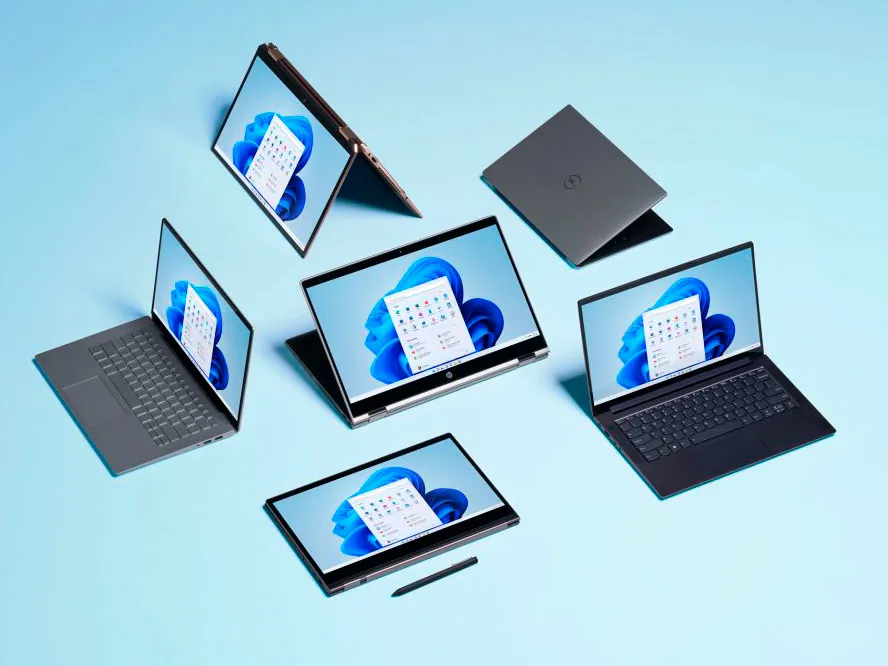
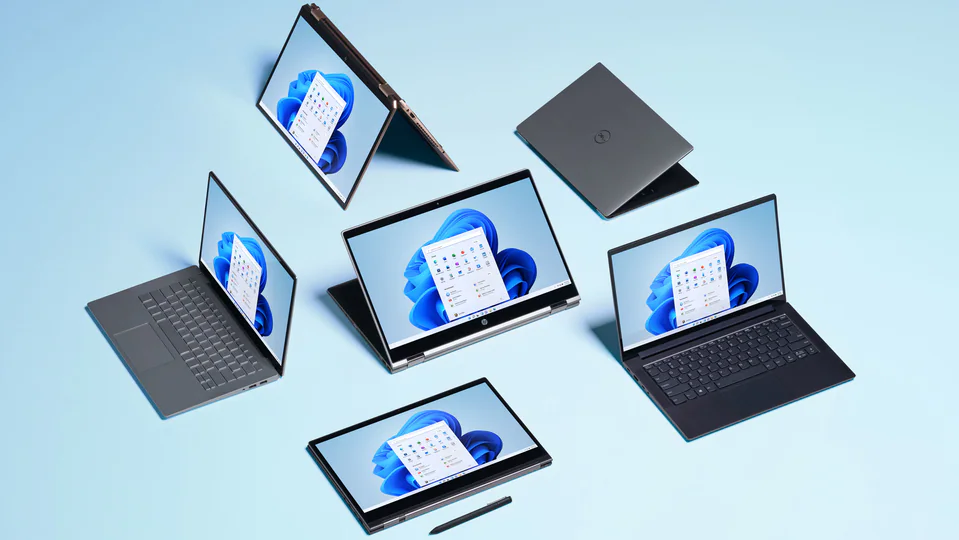
07/18/2022 17:18:19

diff --git a/content/post/2022-07-18-master-installation.md b/content/post/2022-07-18-master-installation.md
@@ -1,7 +1,7 @@
 ---
 title: Windows Master Installation 
 date: 2022-07-18
-hero: /images/windows11.webp
+hero: /images/windows-on-different-devices-cropped.webp
 excerpt: An exhaustive guide for installing Windows 11
 timeToRead: 4
 authors:
